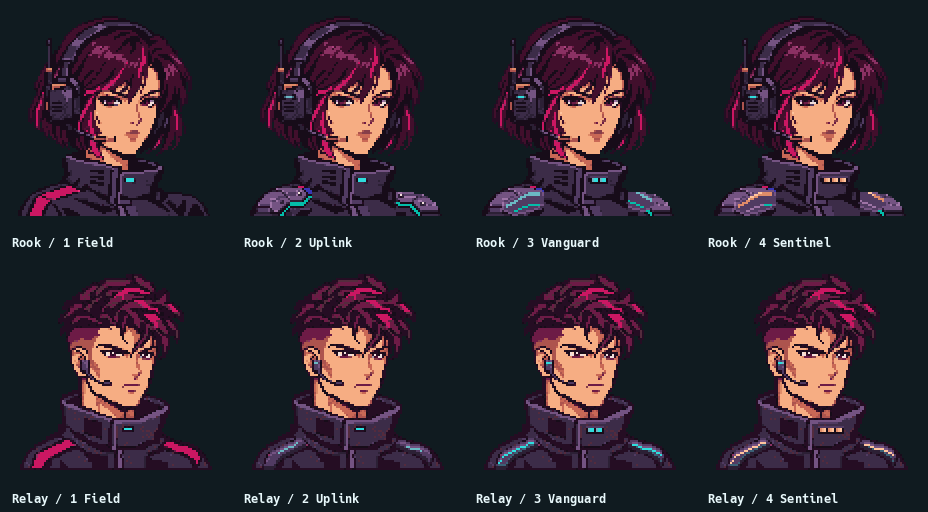
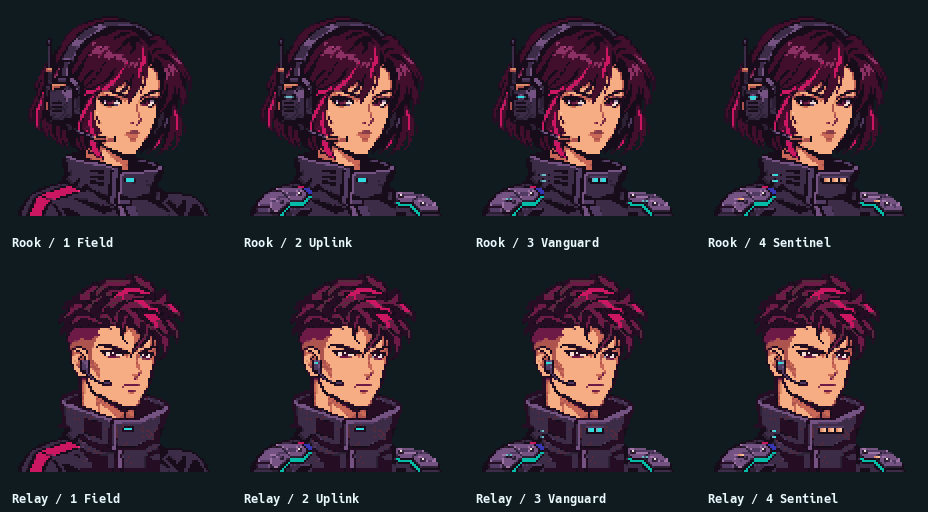
Align operator uniforms across evolution stages

diff --git a/design/avatar_refinement/build_relay.py b/design/avatar_refinement/build_relay.py
@@ -29,27 +29,23 @@ def indexed_base():
     return rows
 
 
-def upgrade(base, stage):
+def fit_uniform(base, stage):
+    """Fit the shared operator jacket around Relay's own collar and zipper."""
     rows = [row.copy() for row in base]
-    # Build the shoulder plates along the baseline jacket's magenta piping.
-    for x in range(WIDTH):
-        stripe = [y for y in range(82, HEIGHT) if base[y][x] == "8"]
-        if not stripe:
-            continue
-        top, bottom = stripe[0], stripe[-1]
-        for y in range(top - 1, min(bottom + 2, HEIGHT)):
-            if base[y][x] != "0":
-                rows[y][x] = "c" if y < bottom else "a"
-        if len(stripe) >= 3:
-            rows[top][x] = "d"
-            if stage == 1 and (17 <= x <= 26 or 81 <= x <= 88):
-                rows[top + 1][x] = "p"
-            elif stage >= 2:
-                rows[top + 1][x] = "q" if stage == 2 else "l"
-                if bottom > top + 2:
-                    rows[bottom - 1][x] = "o"
+    reference = asset_path(0, stage).read_text().splitlines()
+    # Relay is placed four rows lower by the renderer. Align the shared
+    # shoulder pieces in display coordinates, including on the Field sprite.
+    for y in range(77, HEIGHT - 4):
+        jacket = reference[y + 4]
+        rows[y][:34] = jacket[:34]
+        rows[y][74:] = jacket[74:]
+    rows[98][34:74] = rows[97][34:74]
+    return rows
 
-    rows[44][35:38] = list("ppc" if stage == 1 else "qqp")
+
+def upgrade(rows, stage):
+    rows[43][35:38] = list("dcd")
+    rows[44][35:38] = list("pqc" if stage == 1 else "qqp")
     if stage >= 2:
         rows[45][35:38] = list("occ")
         rank = "pqq1pqq" if stage == 2 else "jkl1jkl1jkl"
@@ -59,13 +55,14 @@ def upgrade(base, stage):
         rows[y + 1][x:x + edge] = list("1" + rank + "1")
         rows[y + 2][x:x + edge] = list("1" + rank + "1")
         rows[y + 3][x:x + edge] = list("1" * edge)
-    return rows
 
 
 def main():
     base = indexed_base()
     for stage in range(4):
-        rows = upgrade(base, stage) if stage else base
+        rows = fit_uniform(base, stage)
+        if stage:
+            upgrade(rows, stage)
         asset_path(1, stage).write_text("".join("".join(row) + "\n" for row in rows))
 
 

diff --git a/test_avatar.py b/test_avatar.py
@@ -30,6 +30,15 @@ class AvatarTest(TestCase):
             self.assertEqual(sprites[1], (baseline,) * 4)
             self.assertFalse(any(map(any, sprites[0][0])))
 
+    def test_shared_uniform_sits_at_the_same_height(self):
+        for stage, name in enumerate(avatar.STAGES):
+            with self.subTest(stage=name):
+                rook = avatar.portrait(stage, 0)
+                relay = avatar.portrait(stage, 1)
+                for rook_row, relay_row in zip(rook[88:103], relay[88:103]):
+                    self.assertEqual(rook_row[:34], relay_row[:34])
+                    self.assertEqual(rook_row[74:], relay_row[74:])
+
     def test_invalid_renderer_indices_and_theme_palette(self):
         self.assertEqual(avatar.portrait(-1, 1), avatar.portrait(0, 1))
         self.assertEqual(avatar.portrait(None, 99), avatar.portrait(0, 0))

diff --git a/design/avatar_refinement/render_results.py b/design/avatar_refinement/render_results.py
@@ -72,8 +72,7 @@ def render(raw, columns, rows, cell):
 
 
 def capture(name, raw):
-    if name[-1] in '14':
-        render(raw.decode(), 140, 45, (7, 17)).save(results / f'{name}-sixel.png')
+    render(raw.decode(), 140, 45, (7, 17)).save(results / f'{name}-sixel.png')
 
 
 def contact_sheet():

diff --git a/design/avatar_refinement/results/audit.md b/design/avatar_refinement/results/audit.md
@@ -24,3 +24,13 @@ The two baseline indexed assets are intact. Four rows of transparent vertical pa
 The contact sheet and terminal renders now show the restyled Relay. The preceding visual notes describe the first refinement pass. Rook's supplied portrait was the style reference for the revision. The built-in image generation tool used the original Relay screenshot as the subject reference and Rook's screenshot for the near-front pose, face scale, expressive eyes, flat peach shading, plum outlines, magenta hair accents, and high-collar uniform. The prompt retained Relay's swept undercut, angular jaw, strong brows, and headset, and requested a single transparent bust without interface elements. The resulting source is `../source/relay-rook-style.png`.
 
 Run `python3 -m design.avatar_refinement.build_relay` to rebuild the four Relay assets from the source with Pillow. The conversion uses nearest-neighbor sampling and the shared indexed palette. All four stages share the same face and hair. The headset, shoulder piping and collar insignia change with rank.
+
+## Equipment progression revision
+
+Rook's Uplink is the equipment reference. Vanguard and Sentinel now inherit its plate outlines, jacket, and cyan routing. Vanguard adds ventilation, headset detailing, and two collar marks. Sentinel adds small metal fasteners, brighter headset controls, and three warm collar marks.
+
+Relay's Uplink now introduces two shaded armor plates with dark edges, fasteners, and cyan routing. Vanguard and Sentinel keep the same plate shape and add connectors, localized highlights, and collar marks. The verified revision covers both operators at all four stages.
+
+## Shoulder alignment revision
+
+Relay uses the authored outer jacket and shoulder pixels from the corresponding Rook sprite at each of the four stages. The fitted section accounts for the existing four-row difference in renderer placement, so both operators' plates and jacket hems line up in display coordinates. Relay retains his own face, collar, headset and rank tabs. The revised evidence includes Mint Circuit Sixel views for all eight portraits and a compact Unicode view.
